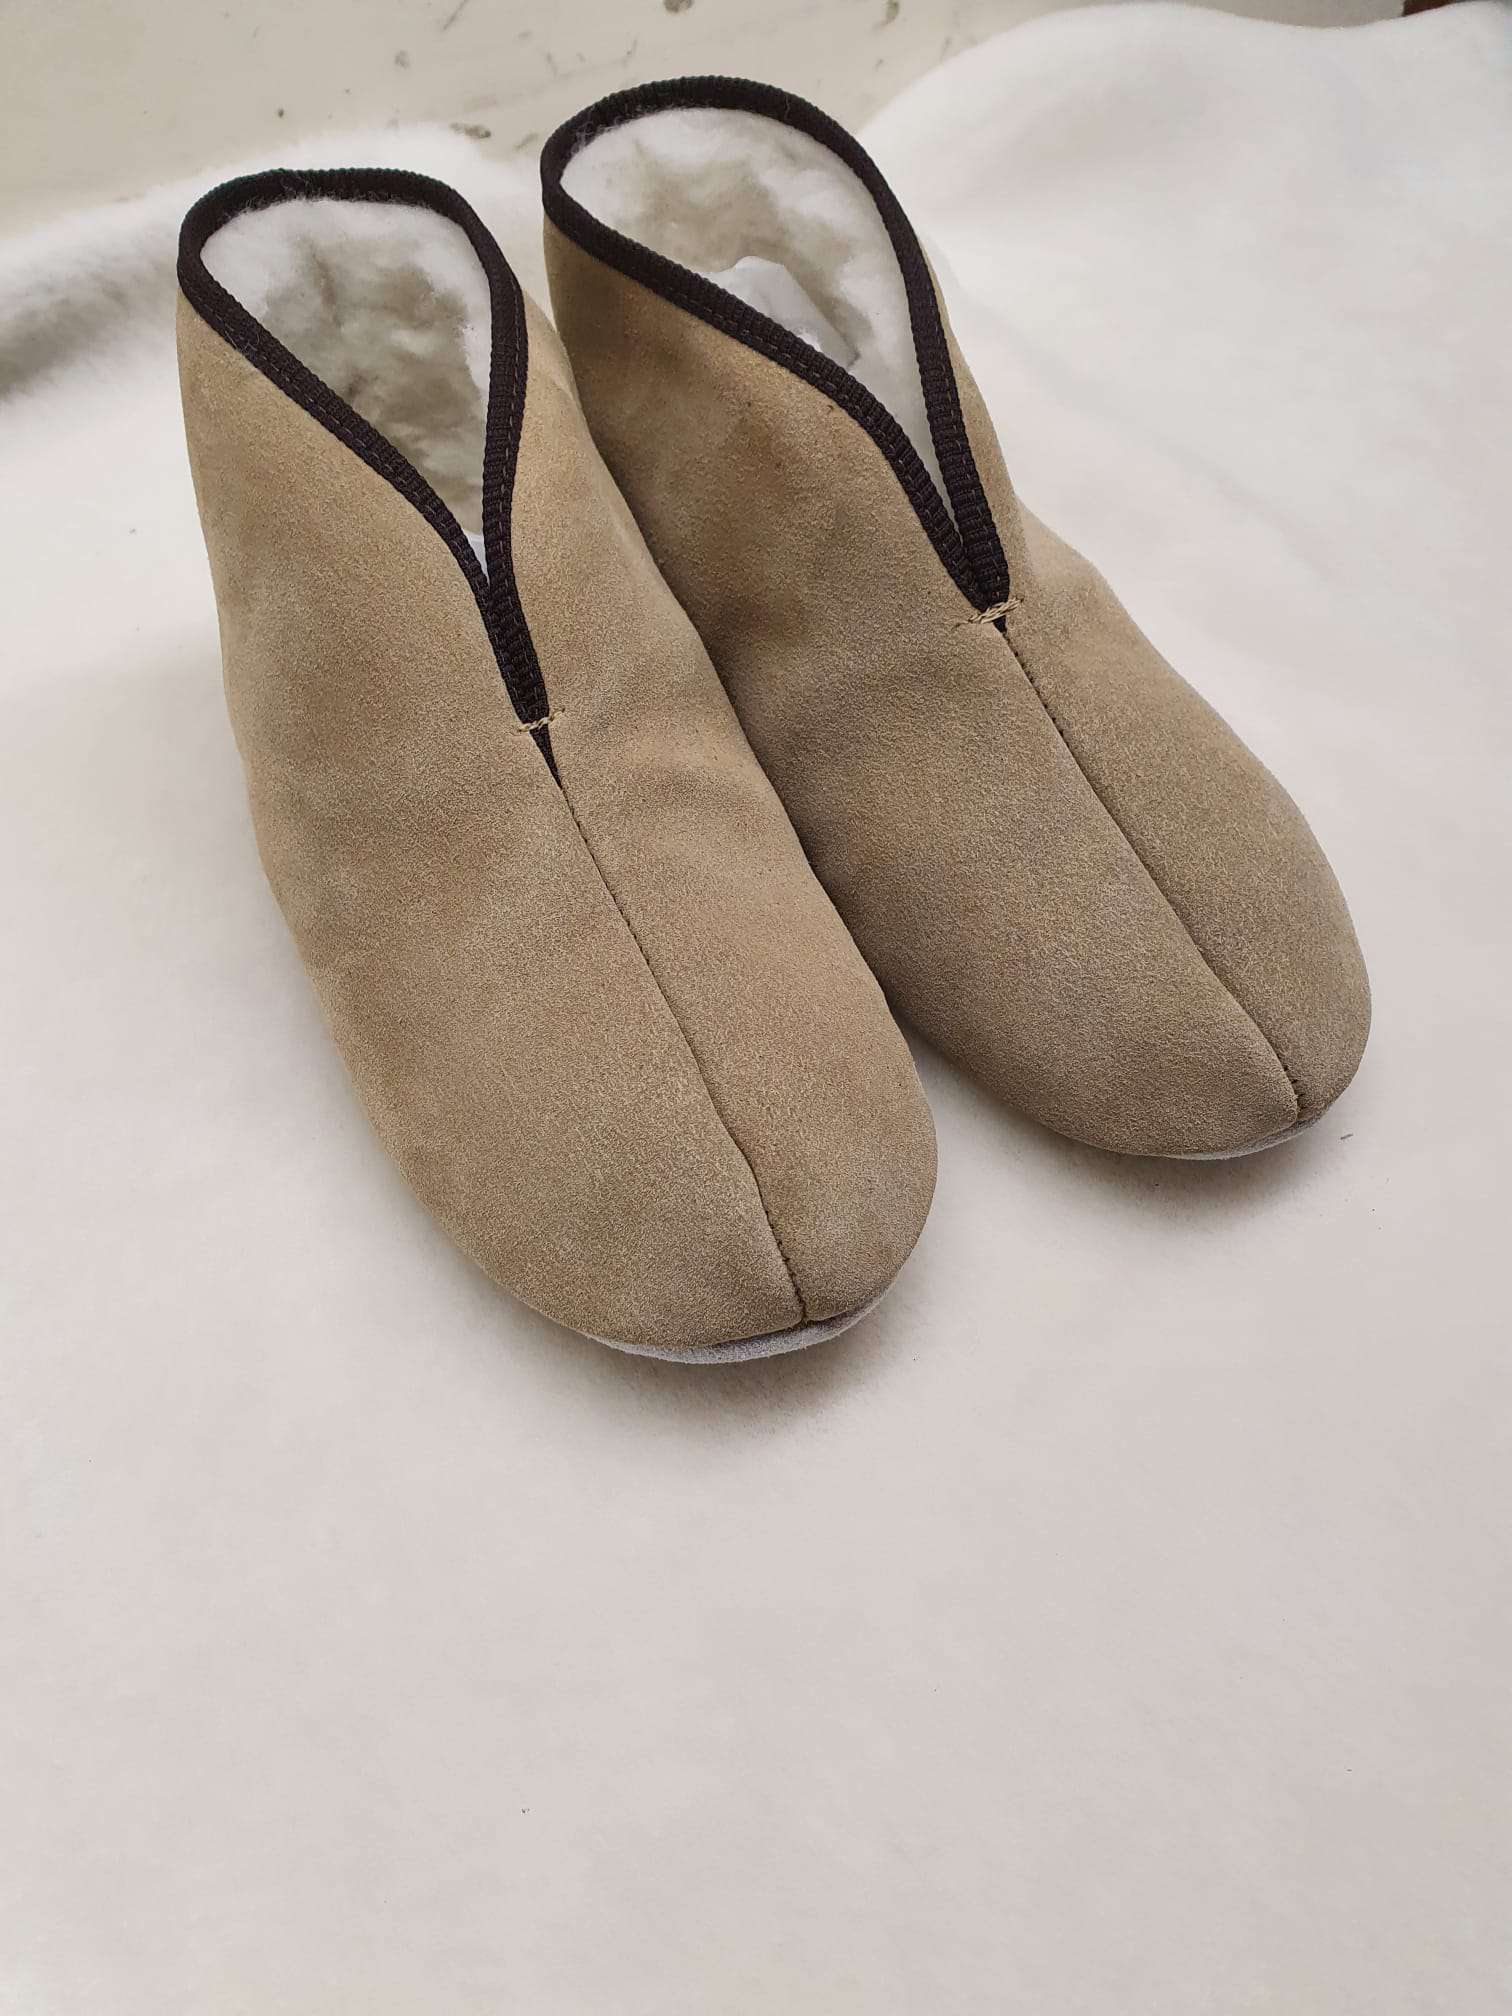
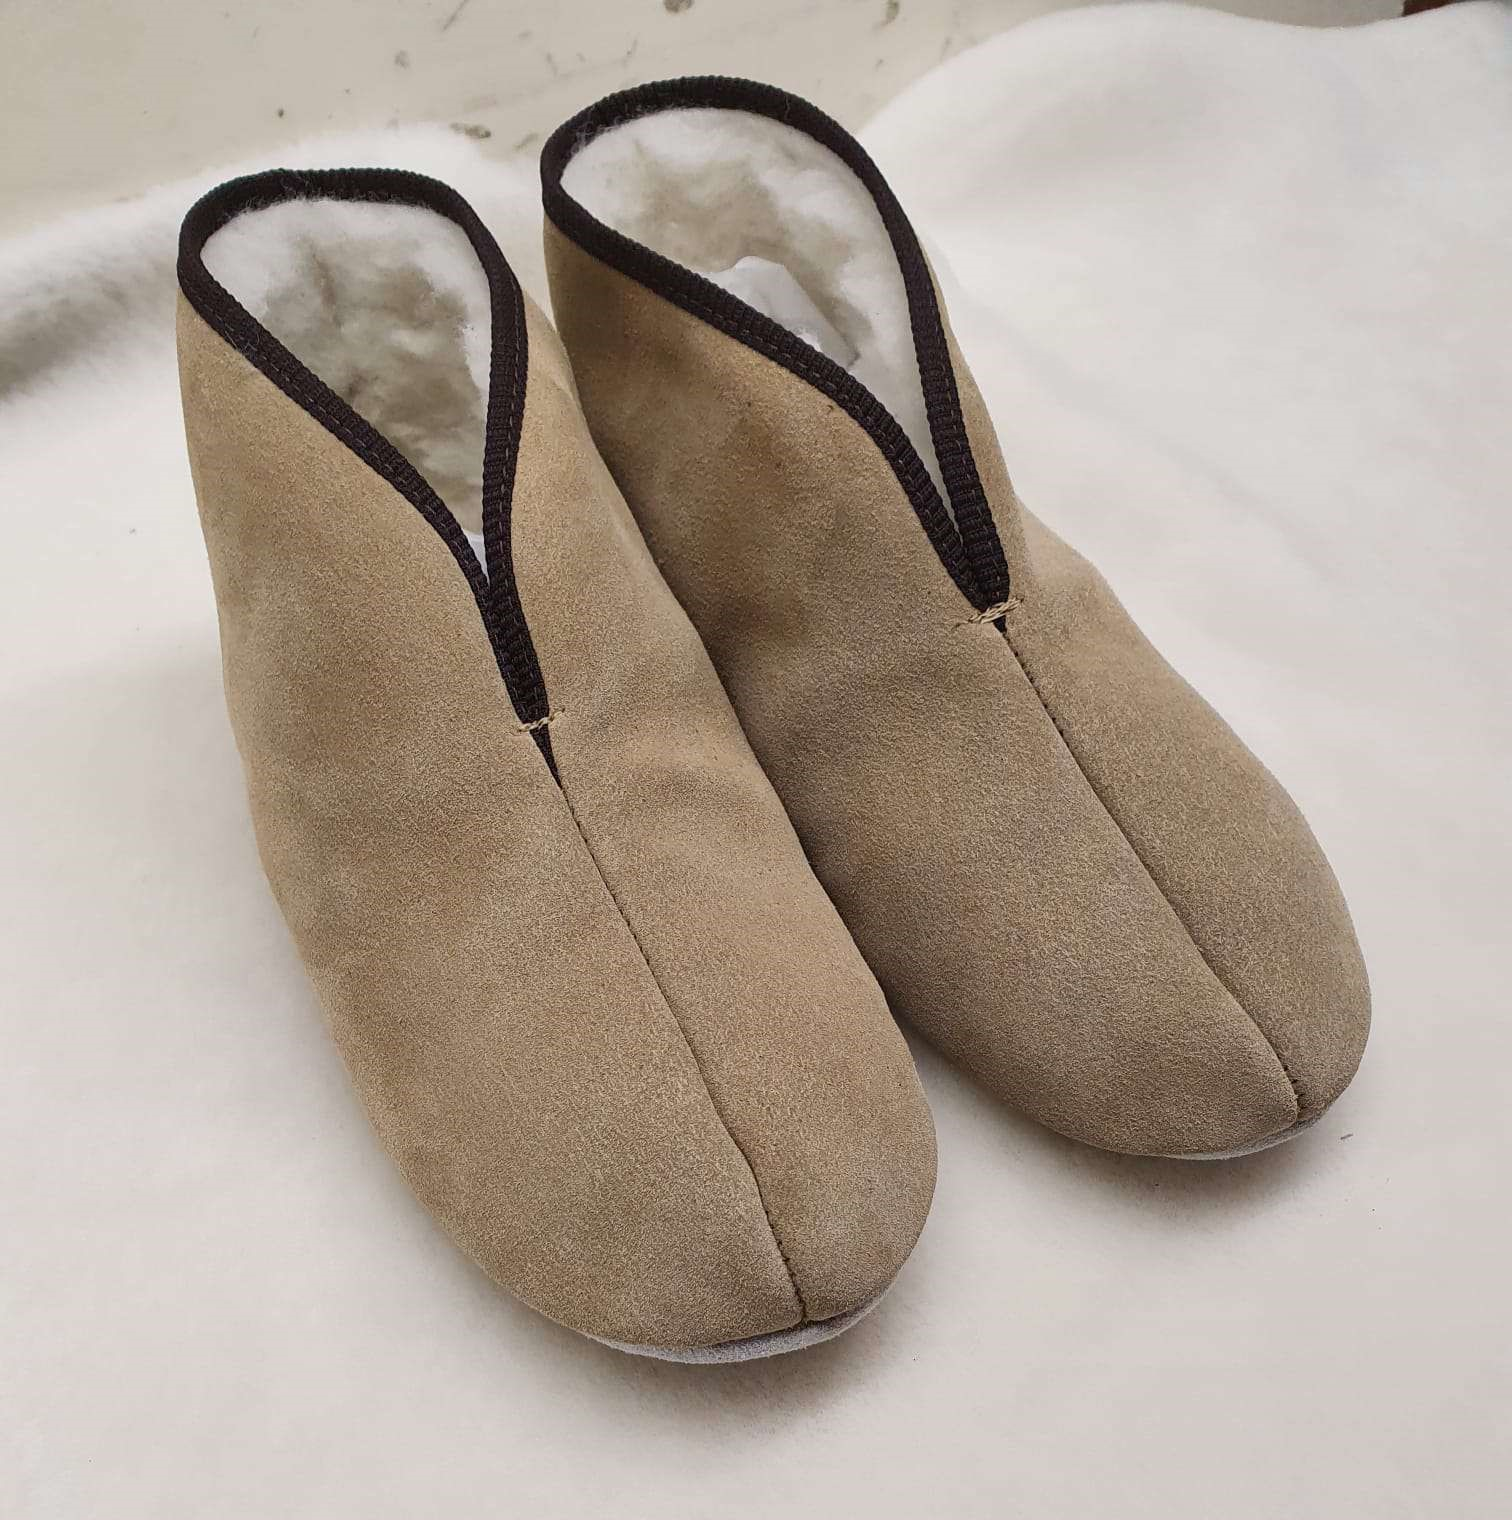
Update image sizes and gradients

diff --git a/src/app/page.tsx b/src/app/page.tsx
@@ -16,7 +16,7 @@ export default function Home() {
       
         <div className='lg:m-5 mt-5 backmain border-4 md:border-8 rounded-lg border-mossgreen clearfix'>
             <div className='p-4 md:p-0'>
-              <Image className='mx-auto md:float-right clearfix md:2/5 xl:h-1/3 md:w-4/12 xl:w-3/12 border-4 md:border-8 border-lmossgreen rounded-xl m-4 shadow-lg md:mr-16' src="/Sheo_14_SlipperBoot.jpeg" alt="Grey boot" width={500} height={500}/>
+              <Image className='mx-auto md:float-right clearfix md:2/5 xl:h-1/3 md:w-4/12 xl:w-3/12 border-4 md:border-8 border-lmossgreen rounded-xl m-4 shadow-lg md:mr-16' src="/Sheo_12_GreyFluff.jpeg" alt="Grey boot" width={500} height={500}/>
             </div>
             <h1 className="text-5xl lg:text-7xl font-bold text-center md:text-left md:ml-10 mt-12 lg:mt-20 underlinemain">Specialising in</h1>
             <p className="text-3xl sm:text-4xl lg:text-5xl font-normal text-center md:text-left mt-4 mb-10 md:ml-10">Moccasins, Turn slippers and shoes</p>
@@ -25,7 +25,7 @@ export default function Home() {
 
         <div className='lg:m-5 mt-5 backmain border-4 md:border-8 rounded-lg border-peach clearfix'>
             <div className='p-4 md:p-0'>
-              <Image className='mx-auto md:float-right clearfix md:2/5 xl:h-1/3 md:w-4/12 xl:w-3/12 border-4 md:border-8 border-lpeach rounded-xl m-4 shadow-lg md:mr-16' src="/Sheo_5_BlackSlipOns.jpeg" alt="Slipper with 3 diffrent colours, dark blue, grey and scarlett" width={500} height={500}/>
+              <Image className='mx-auto md:float-right clearfix md:2/5 xl:h-1/3 md:w-4/12 xl:w-3/12 border-4 md:border-8 border-lpeach rounded-xl m-4 shadow-lg md:mr-16' src="/Sheo_14_SlipperBoot.jpeg" alt="Slipper with 3 diffrent colours, dark blue, grey and scarlett" width={500} height={500}/>
             </div>
             
             <h1 className="text-5xl lg:text-7xl font-bold text-center md:text-left md:ml-10 mt-12 lg:mt-20 underlinemain2">A workforce</h1>

diff --git a/src/app/about/page.tsx b/src/app/about/page.tsx
@@ -8,7 +8,7 @@ export default function About() {
                 <h1 className="justify-between text-center md:text-left text-3xl md:text-6xl mt-20 md:mt-28 mb-1 font-bold md:ml-1 md:px-8">About us<span className='ml-3 font-bold text-mossgreen '> -</span></h1>     
             </div>
             <div className='m-10'>
-                <img className=' lg:float-right sm:ml-10 sm:mr-20 sm:w-3/5 sm:h-3/5 lg:w-2/5 lg:h-2/5  sm:shadow-lg border-8 border-mossgreen rounded-xl' loading='lazy' src="\Sheo_9_GreySlipOns.jpeg" alt="Tan scuffs"></img>
+                <img className=' lg:float-right sm:ml-10 sm:mr-20 sm:w-3/5 sm:h-3/5 lg:w-3/12 lg:h-3/12  sm:shadow-lg border-8 border-mossgreen rounded-xl mx-auto' src="Sheo_12_GreyFluff.jpeg" alt="Tan scuffs"></img>
             </div>
             <div className='m-10 text-center md:text-left text-2xl sm:text-4xl mt-10'>
                 <p className=''>

diff --git a/src/app/globals.css b/src/app/globals.css
@@ -30,7 +30,7 @@
 /* Gradients for backgrounds */
 .backmain {
   background: rgb(226,226,226);
-  background: linear-gradient(16deg, rgb(180, 180, 180) 0%, rgb(253, 253, 253) 91%);
+  background: linear-gradient(16deg, rgb(206, 206, 206) 0%, rgb(235, 235, 235) 91%);
 }
 
 .bottomnav {
